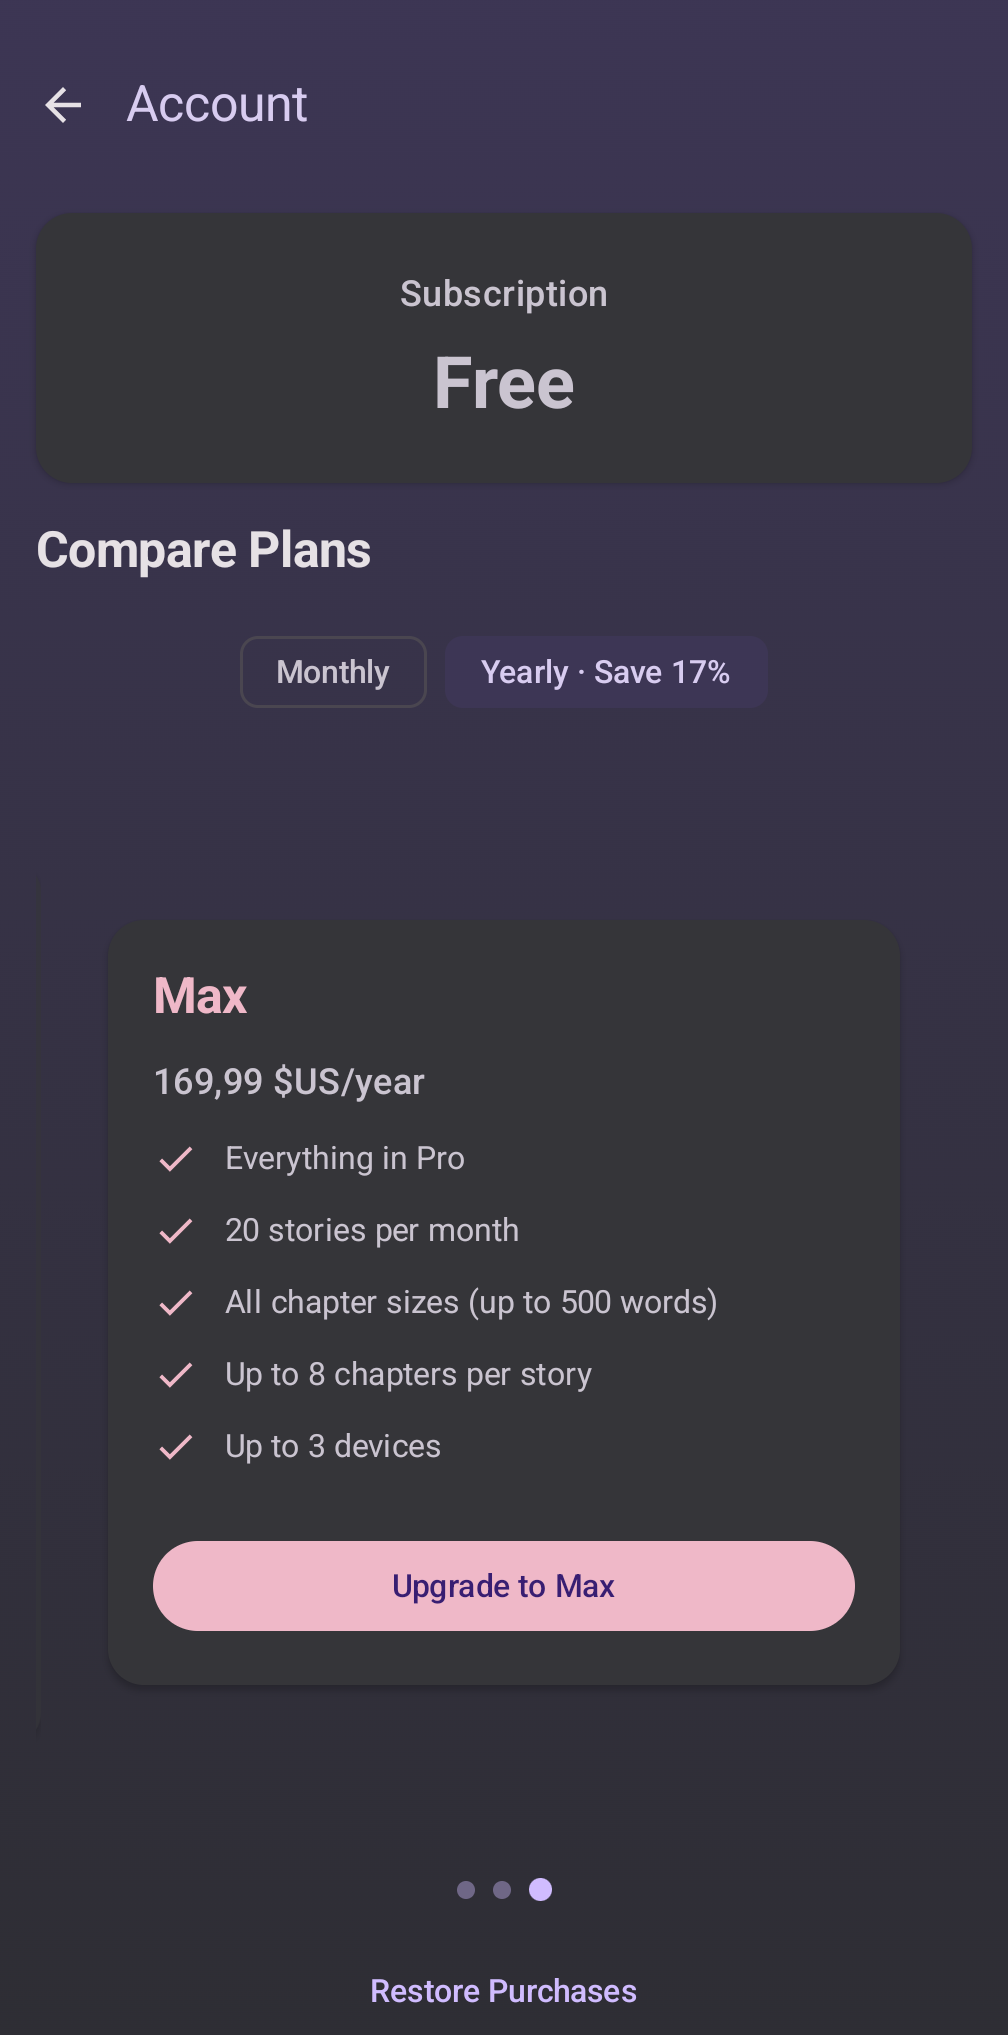
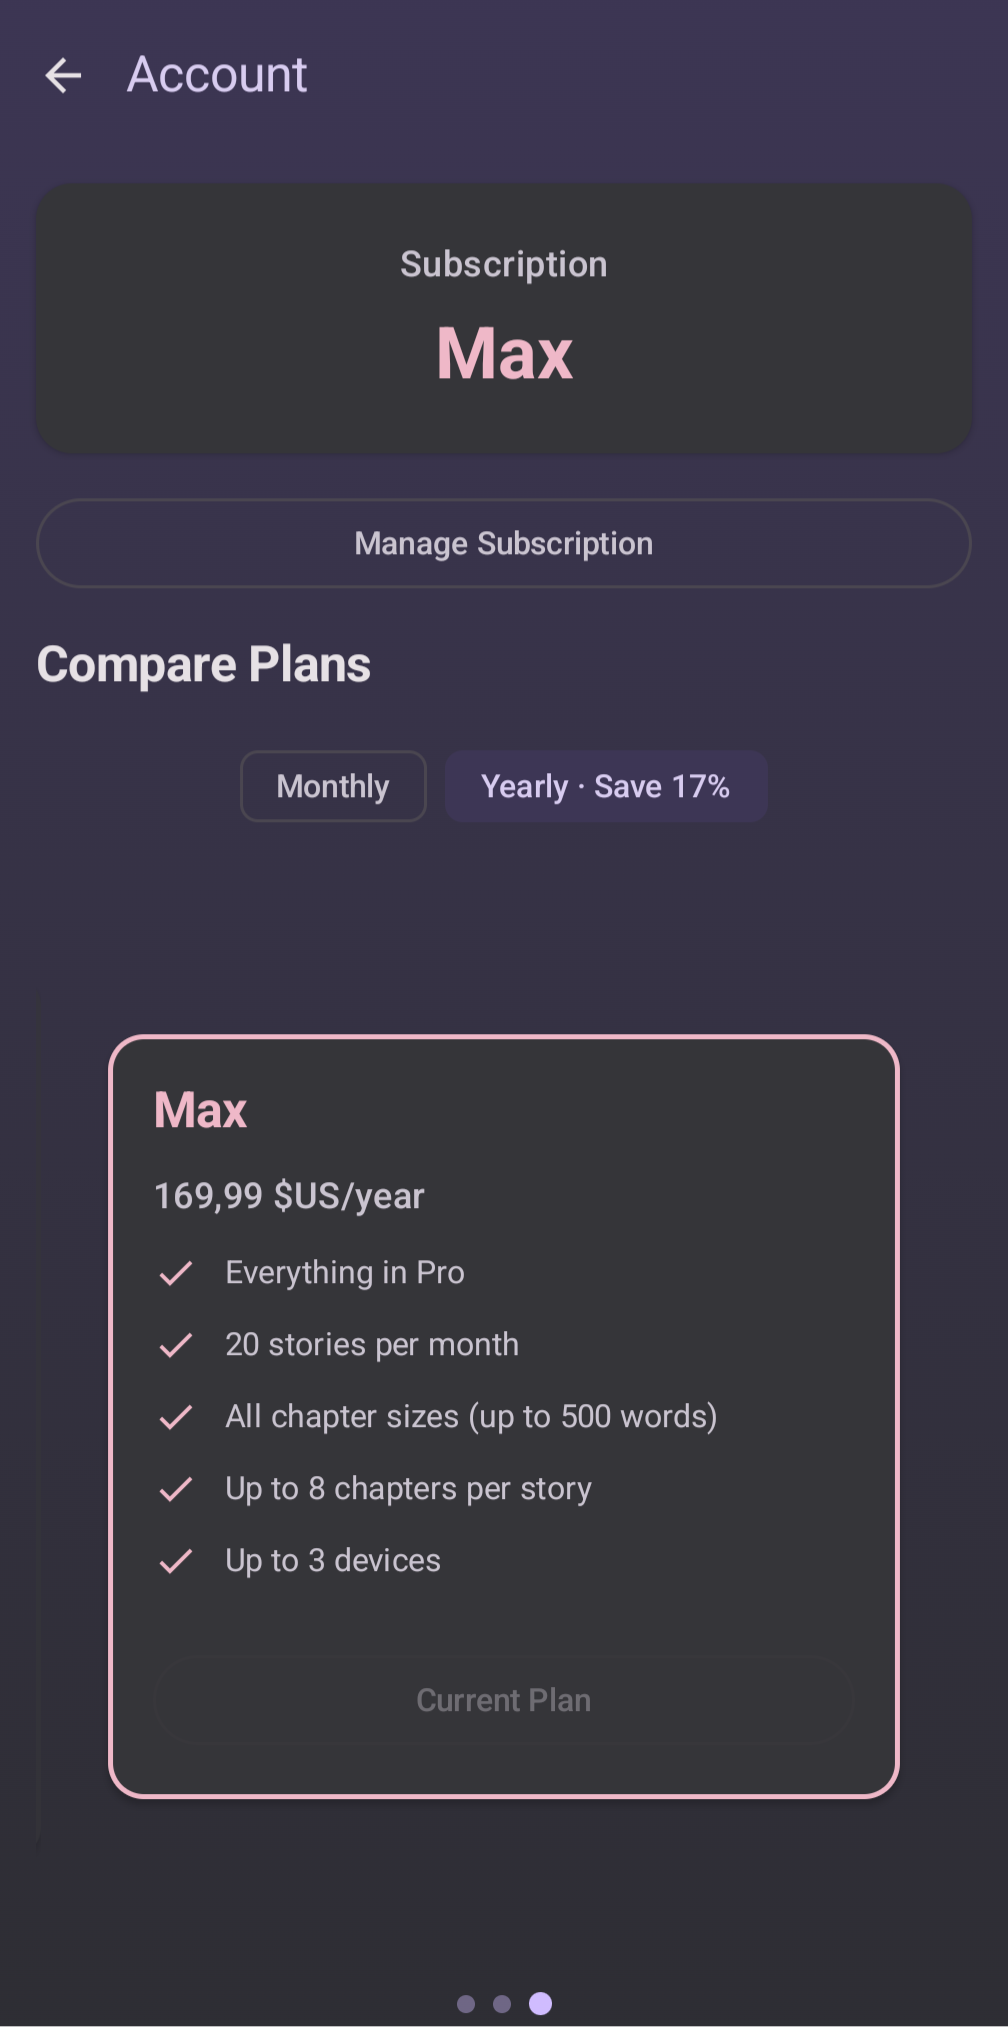
Update maxPlan screenshot and add in-app cancellation path

diff --git a/terms.md b/terms.md
@@ -21,7 +21,7 @@ This app is designed for children ages 2-9 under adult supervision. Parents and 
 - Taleria offers free and paid subscription tiers (Pro and Max)
 - The free tier is ad-supported with age-appropriate ads; paid tiers (Pro and Max) are ad-free
 - Subscriptions are billed monthly or annually
-- You may cancel your subscription at any time; access continues until the end of the billing period
+- You may cancel your subscription at any time from within the app under **Settings > Account > Manage Subscription**; access continues until the end of the billing period
 - Refunds are handled according to our [Refund Policy](https://joytect.github.io/taleria-legal/refund)
 - We reserve the right to change pricing with reasonable notice
 

diff --git a/pricing.md b/pricing.md
@@ -64,7 +64,7 @@ Everything in Pro, plus:
 
 ## Cancellation
 
-- You can cancel your subscription at any time through your Paddle account at [paddle.com](https://www.paddle.com)
+- You can cancel your subscription at any time from within the app under **Settings > Account > Manage Subscription**
 - After cancellation, your subscription remains active until the end of the current billing period
 - No partial refunds are issued for unused time
 - Downgrades take effect at the end of your current billing period

diff --git a/refund.md b/refund.md
@@ -8,7 +8,7 @@ Taleria delivers AI-generated stories that are consumed instantly upon generatio
 
 ## Cancellation
 
-- You may cancel your subscription at any time
+- You may cancel your subscription at any time from within the app under **Settings > Account > Manage Subscription**
 - Access continues until the end of your current billing period
 - No partial refunds are issued for unused time
 
